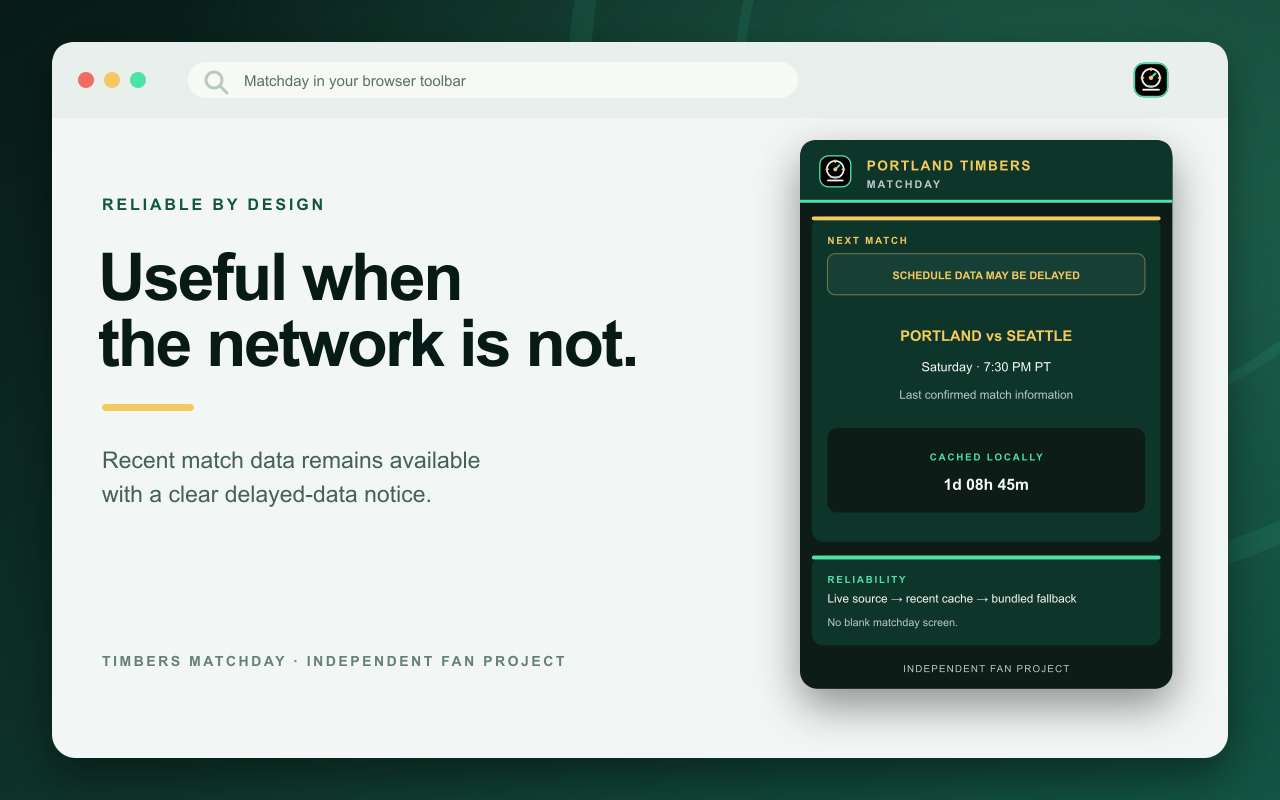
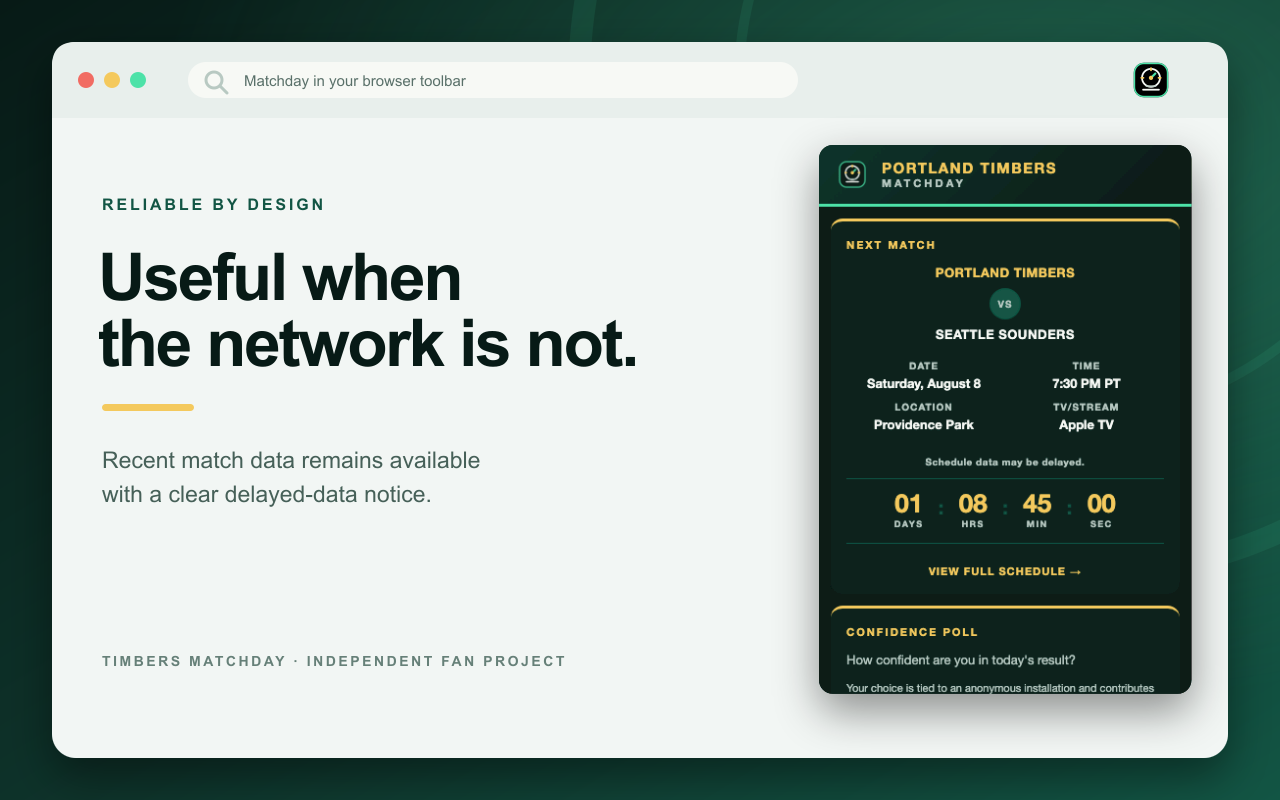
fix(store): harden presentation integrity and support privacy

Changed region(s): [[0.5938, 0.1562, 0.9375, 0.9062]]

diff --git a/docs/chrome-web-store/presentation-package.md b/docs/chrome-web-store/presentation-package.md
@@ -80,6 +80,8 @@ The homepage and privacy URLs currently use HTTPS GitHub Pages. The support URL 
 
 The promotional graphics use limited text and brand-led composition. The screenshots are full-bleed, describe existing UI states, and do not show live scores, notifications, Thorns support, player voting, standings, geographic analytics, or any other unshipped capability.
 
+Each screenshot embeds a deterministic headless-Chrome capture of the real `popup.html`, `styles.css`, and `popup.js` runtime under a fixed, non-production fixture state. Approved PNG and runtime-source SHA-256 digests prevent stale or substituted artwork from passing the build gate. Regeneration requires Chrome or Chromium; set `CHROME_BIN` when the executable is not in a standard location.
+
 Regenerate and validate the complete set with:
 
 ```bash
@@ -145,5 +147,6 @@ Before uploading or changing the public listing:
 5. Compare the manifest, detailed description, privacy practices, `PRIVACY.md`, support forms, and runtime behavior field by field.
 6. Re-open the homepage, support, privacy, and official schedule URLs from a signed-out browser session.
 7. Confirm the independent-project disclaimer appears in the listing description and popup.
-8. Record the owner-approved title, copy, assets, URLs, visibility, package SHA-256, submission time, approval time, and publication time.
-9. Do not publish until the owner explicitly approves the complete public presentation in the Chrome Web Store Developer Dashboard.
+8. Confirm the public support form is limited to non-sensitive questions and failure reports; do not offer out-of-extension deletion requests until a private support route is live.
+9. Record the owner-approved title, copy, assets, URLs, visibility, package SHA-256, submission time, approval time, and publication time.
+10. Do not publish until the owner explicitly approves the complete public presentation in the Chrome Web Store Developer Dashboard.

diff --git a/PRIVACY.md b/PRIVACY.md
@@ -63,6 +63,6 @@ Timbers Matchday is not directed to children under 13 and does not knowingly req
 
 ## Changes and contact
 
-Behavior changes that affect data handling require an updated extension disclosure and privacy policy in the same release. Use the in-extension deletion control for community data. For questions, deletion failures, or deletion requests when the extension is unavailable, use the [public support form](https://github.com/Tony5897/timbers-chrome-ext/issues/new/choose) until the dedicated support route is live. Never post Firebase IDs, authentication tokens, API keys, or personal information in a public issue.
+Behavior changes that affect data handling require an updated extension disclosure and privacy policy in the same release. Use the in-extension deletion control for community data. For questions or non-sensitive deletion-failure reports, use the [public support form](https://github.com/Tony5897/timbers-chrome-ext/issues/new/choose). The public form cannot process a deletion request because identifiers must never be posted publicly; an out-of-extension deletion request may be offered only after a dedicated private support route is live.
 
 Timbers Matchday's use of information received from Chrome APIs adheres to the Chrome Web Store User Data Policy, including the Limited Use requirements.
